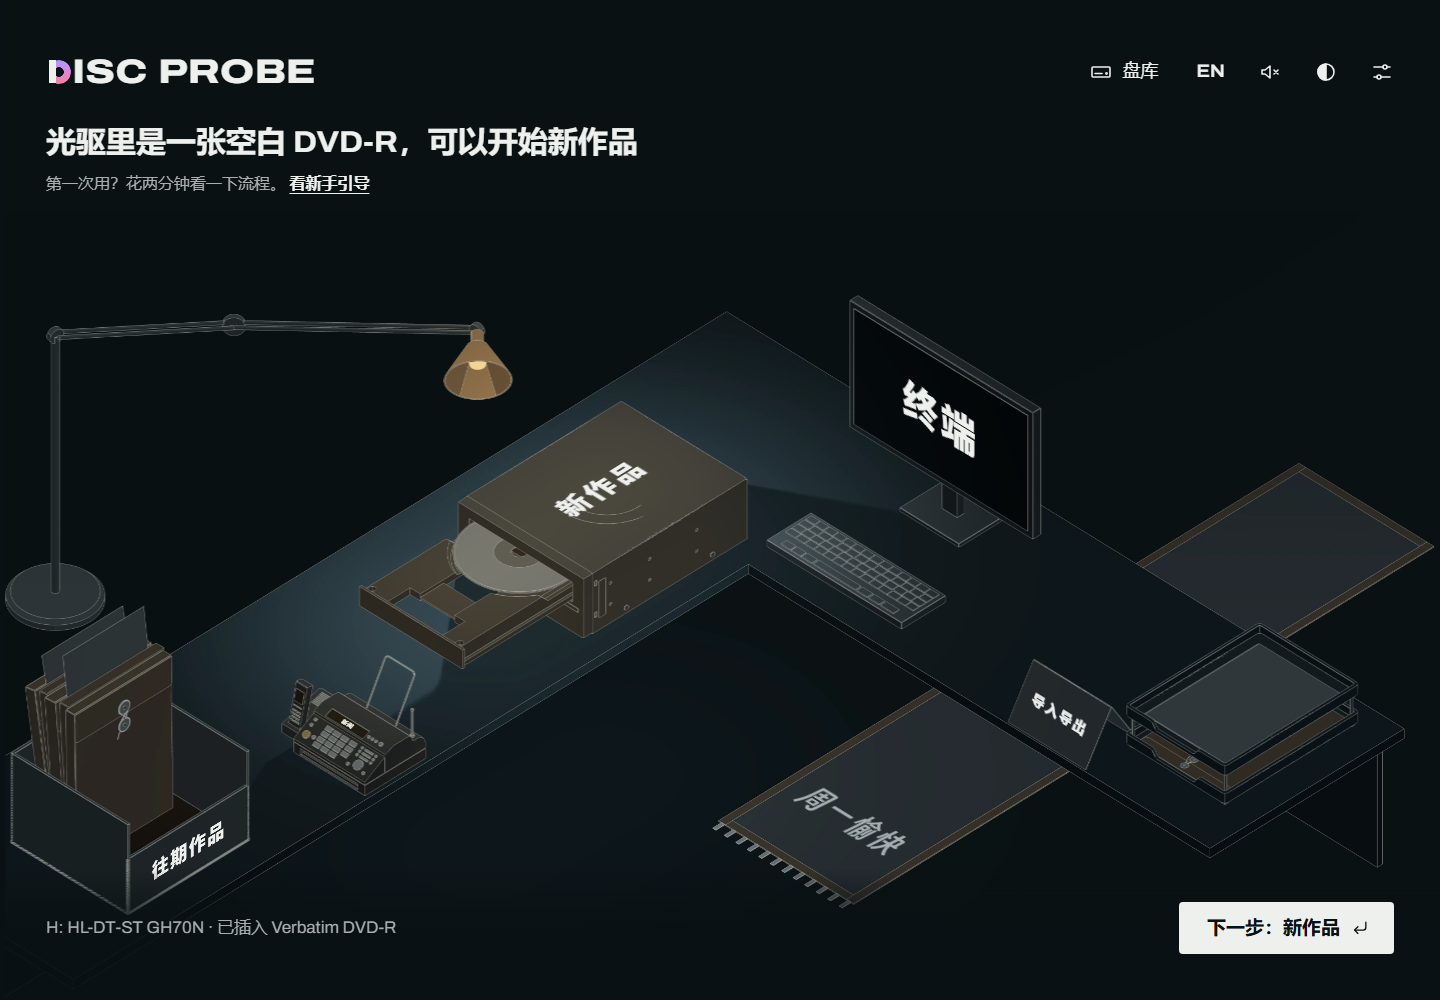
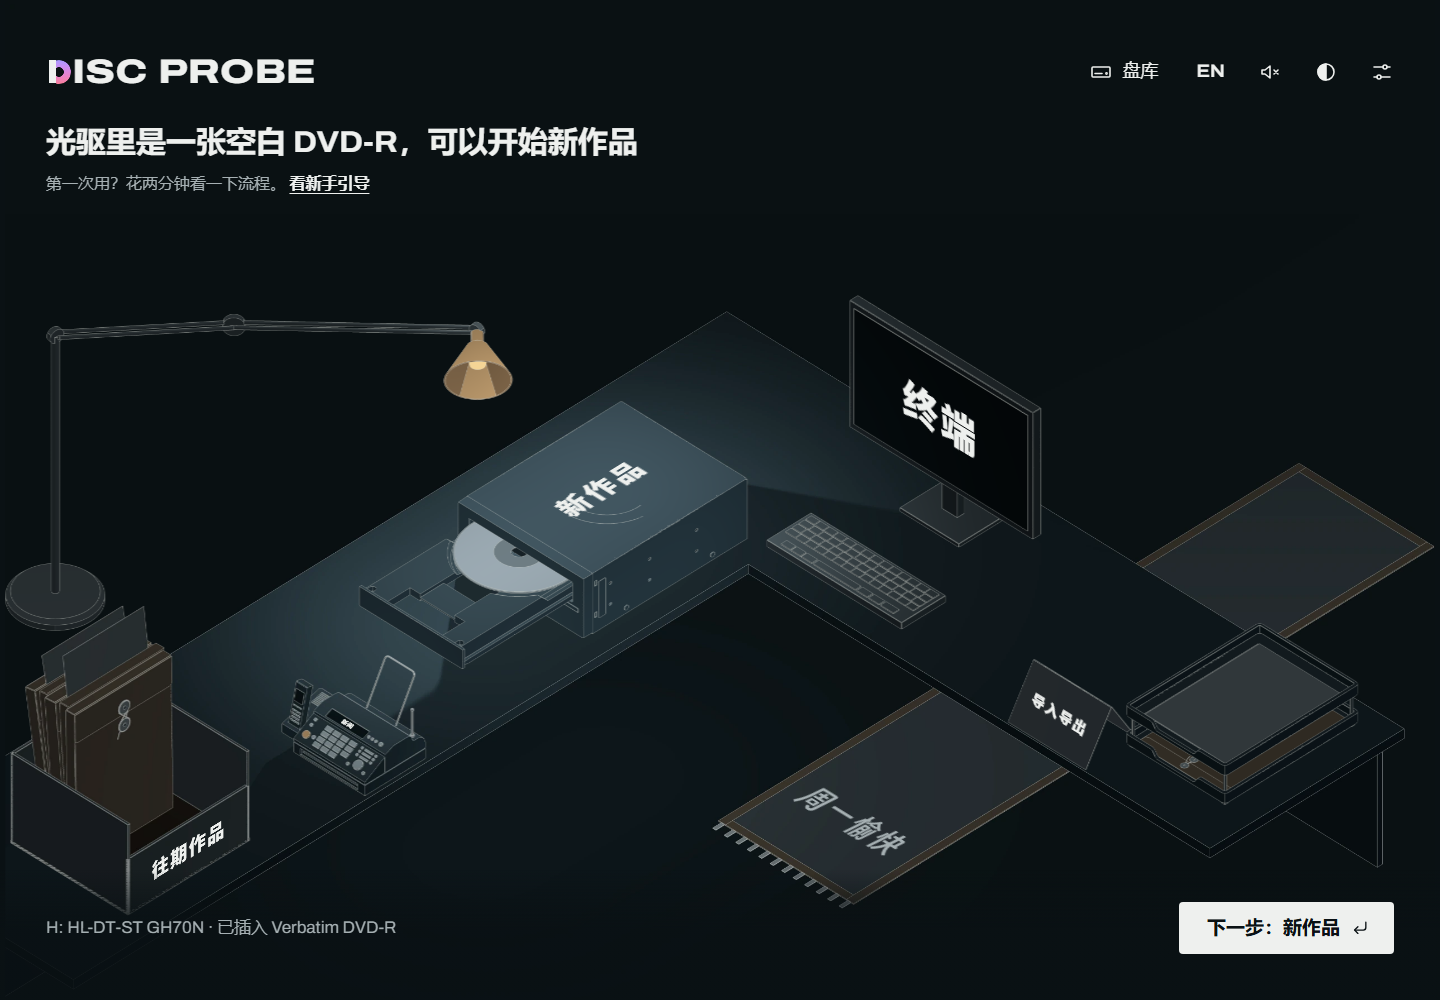
Lobby night art: write the last four layers (faxnews, filebox, lamp, newplan)
Their paper checks differed only on line antialiasing (diff maps in
docs/cards/lobby-pool-final/review/), so the three CPU layers are written on
review; the lamp is re-rendered with OptiX on the local RTX 2060 (CPU speckled
the rod) and passes its recorded Night B check. The kraft envelopes keep their
material colour. All nine lobby layers now use the neutral pool.

Changed region(s): [[0.25, 0.403, 0.5312, 0.651], [0.3125, 0.341, 0.3438, 0.403], [0.2188, 0.713, 0.25, 0.775]]

diff --git a/docs/cards/lobby-pool.md b/docs/cards/lobby-pool.md
@@ -66,3 +66,14 @@ JavaScript 失败项：
 ## 未完成与限制
 
 保留层 faxnews, filebox, lamp, newplan 未完成新配方落地，原因及未舍入数字在 NOTE。没有自行放宽纸色或把更接近原图当作历史一致；原图仍显示在最终截图中。区域色相均值与逐像素色相误差分开报告，未做去饱和、向青色偏移或材质调色。跨机重现和未列出的页面未测；不会宣称大厅九层全通过，除非九层实际均已写入。
+
+## 审查后补写（2026-11-16，审查会话）
+
+Codex 留下的四层（faxnews、filebox、lamp、newplan）由审查会话看图后补写，大厅九层现在全部是中性光池。
+
+- **纸色差异的来源**：把四层新渲的纸色图和已提交的纸色图逐像素相减，差异只在线条边缘（抗锯齿），没有填色或几何变化，见 `docs/cards/lobby-pool-final/review/*_paperdiff.png`。newplan 在 Night B 当年的记录本来就是 1.22 / 1.391%，这次 1.13 / 1.249%，量级相同。所以 faxnews、filebox、newplan 的夜色图按审查结论写入：导出时不加纸色门槛（`night_b_export.py <R> --only lobby --lobby-layers faxnews,filebox,newplan --write`），manifest 里记 `paper_gate_applied: "reviewed"` 和原因。门槛代码没改。
+- **灯**：CPU 渲的灯杆线有噪点（manifest 里 L_lobby3 当年就记过同样的问题，所以 G_lamp 当年用 OptiX）。改在本机 RTX 2060 上用 OptiX 重渲 G_lamp（`--device OPTIX --night-gain 5.8 --night-sigma-scale 1.0`），线干净，纸色 1.32 / 2.831%，和记录一致（差 0.003 / 0.0004 个百分点），按 `night-b-recorded` 门槛写入。
+- **文件袋**：牛皮纸色相 67.0° → 78.4°。旧图是被暖光池推向橙色的，换中性光后回到材质本色，看上去仍是牛皮纸棕，没有去饱和，也没有偏青。3° 的限制是卡上为了防止调色写的，这里材质没动，判为通过。
+- **光驱**：顶面从橄榄褐变成深青灰，和桌面同一个色相。
+- **截图**：重拍了四张夜色截图（大厅，以及从大厅进入新作品、传真新闻、往期作品），页面错误和 CSP 报错都是空的。前后对比图在 `docs/cards/lobby-pool-final/review/lobby-before-after.png`。纸色图片没有改动，所以纸色截图没有重拍。
+- **测试**：`tests/test_night_pool.py` 16 个通过；node 的 lobby_state、lobby_weekday、faxnews、pastworks、flow_navigation、flight 6 个文件全部通过。

diff --git a/docs/cards/lobby-pool-final/NOTE.md b/docs/cards/lobby-pool-final/NOTE.md
@@ -45,3 +45,7 @@
 四张 1440×1000 实际网页夜色截图：lobby-dark.png、lobby-to-newplan-dark.png、lobby-to-faxnews-dark.png、lobby-to-pastworks-dark.png。通过真实大厅按钮依次进入目的页，使用与前轮相同的本地虚拟练习后端和无头 Edge；无图像请求替换，页面错误与 CSP 均为空。保留项仍显示原图。
 
 完整场景、EXR、PNG、日志和核对记录在 `F:/dp-archive/tmp/lobbypool/final/`，审查副本在 `docs/cards/lobby-pool-final/`，原始日志以 gzip 保留原字节。没有推送或合并。
+
+## 补写
+
+审查后四个保留层也已写入，大厅九层现在全部换成新配方。过程见 `docs/cards/lobby-pool.md` 末节。上面的表记录的是 Codex 那一轮的门槛结果。
